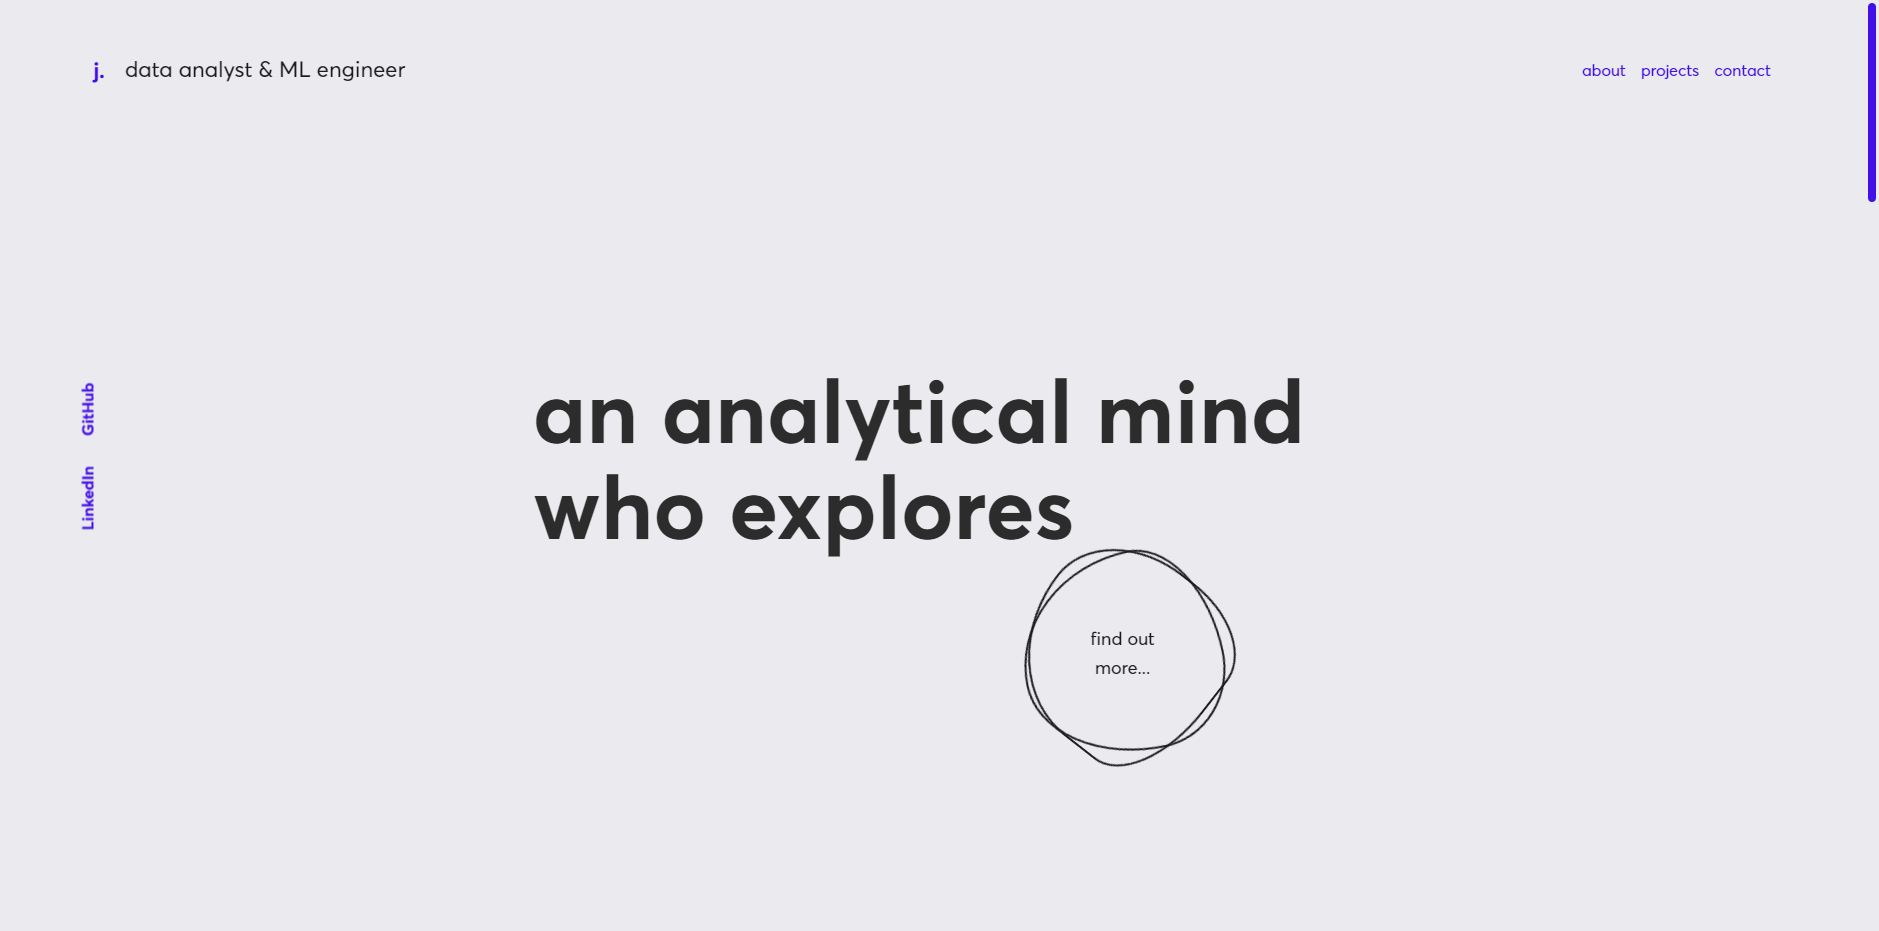
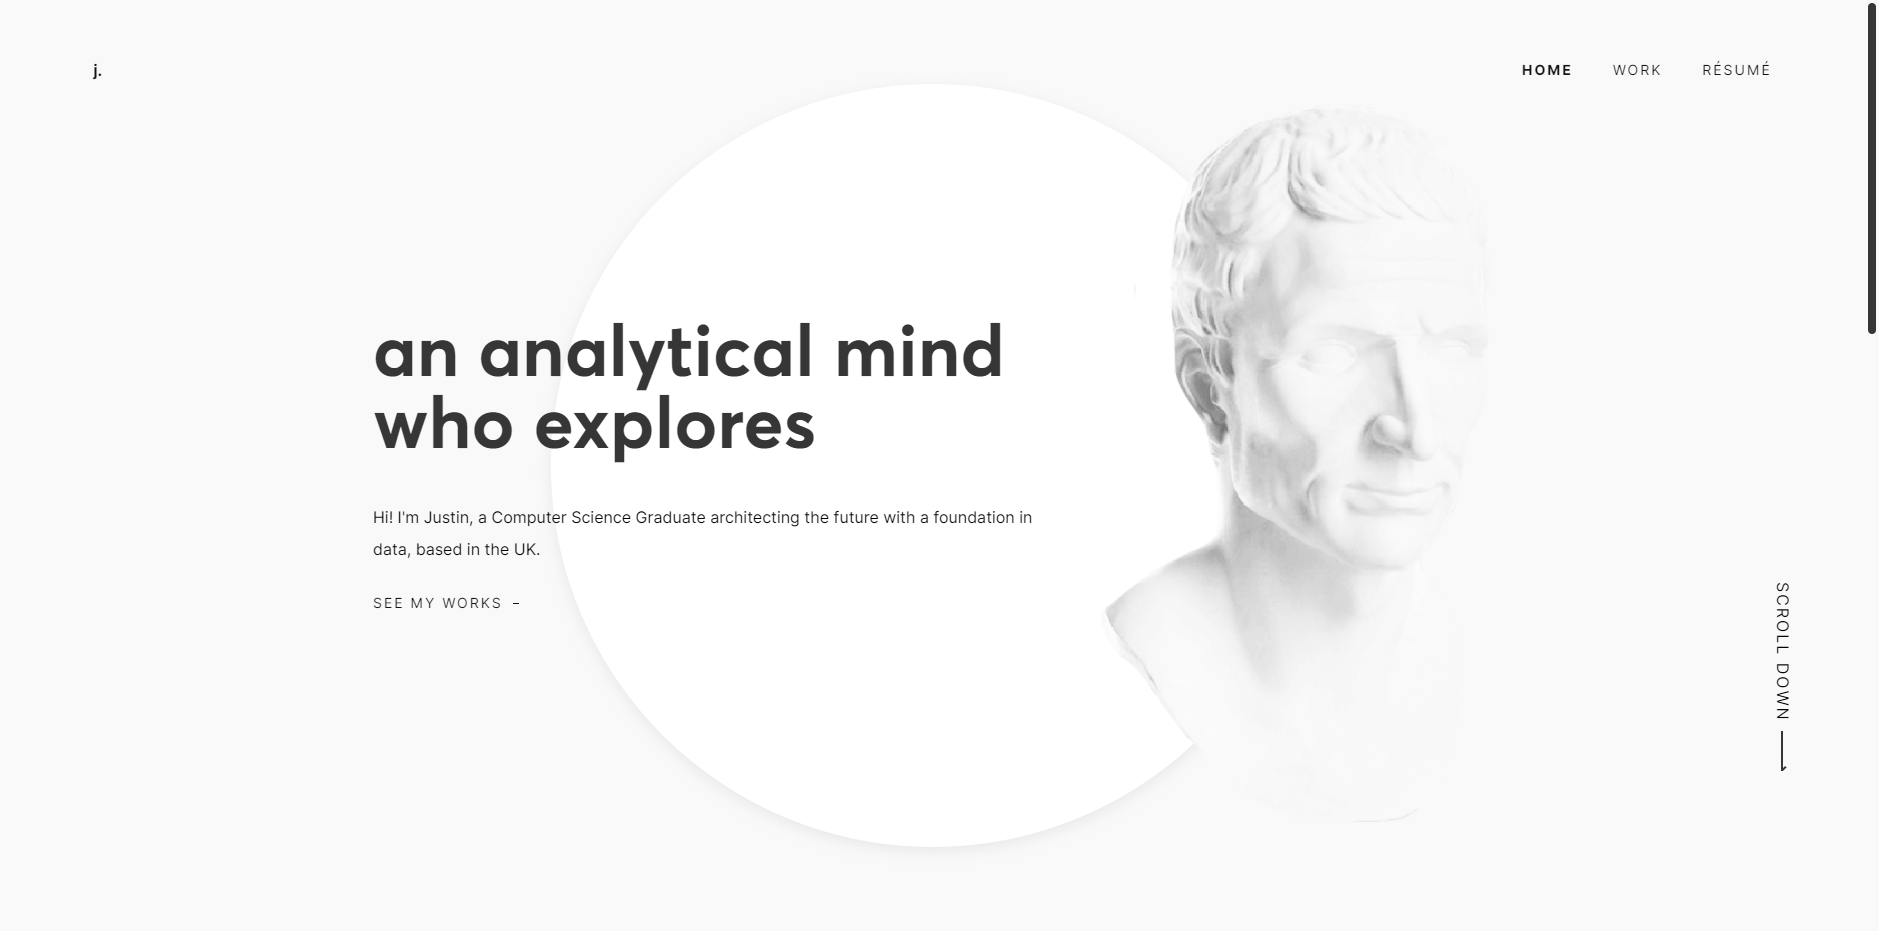
Updated readME

diff --git a/README.md b/README.md
@@ -1,11 +1,10 @@
 <h1 align="center">jhtkoo0426.github.io</h1>
-<p align="center">My working portfolio built with <a href="https://reactjs.org" target="_blank">React.js</a>.</p>
-<p align="center">Previous iterations: <a href="https://github.com/jhtkoo0426/jhtkoo0426.github.io/">v1</a></p>
+<p>This is the repository for my 2023 web portfolio, built with React JS. View the previous iteration <a href="https://github.com/jhtkoo0426/Portfolio-v2">here</a>.</p>
+<img src="app/src/media/portfolio-landing.png">
 
 <img src="https://img.shields.io/badge/React-20232A?style=for-the-badge&logo=react&logoColor=61DAFB" /> <img src="https://img.shields.io/badge/React_Router-CA4245?style=for-the-badge&logo=react-router&logoColor=white" /> <img src="https://img.shields.io/badge/JavaScript-323330?style=for-the-badge&logo=javascript&logoColor=F7DF1E" /> <img src="https://img.shields.io/badge/HTML-239120?style=for-the-badge&logo=html5&logoColor=white" /> <img src="https://img.shields.io/badge/CSS-239120?&style=for-the-badge&logo=css3&logoColor=white" />
 
 <hr>
-
 ## Local Deployment
 If you do not have Node.js and npm installed, please refer to [this document](https://docs.npmjs.com/downloading-and-installing-node-js-and-npm).
 1. Navigate to the portfolio app directory
